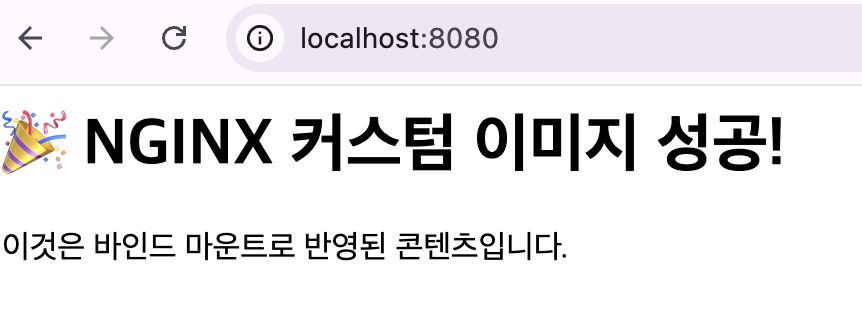
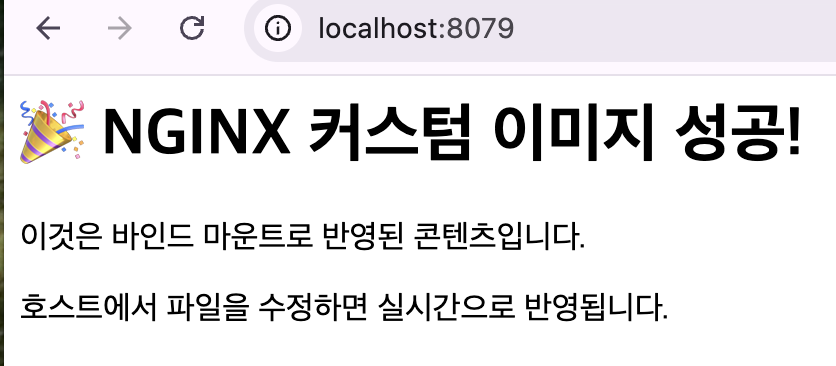
README.md 쉊

diff --git a/README.md b/README.md
@@ -568,10 +568,6 @@ my-custom-nginx   1.0       5df2d5102d4e   51 seconds ago   62.4MB
 CONTAINER ID   IMAGE                 COMMAND                   CREATED          STATUS          PORTS                                     NAMES
 6d75e498e0d8   my-custom-nginx:1.0   "/docker-entrypoint.…"   16 seconds ago   Up 15 seconds   0.0.0.0:8079->80/tcp, [::]:8079->80/tcp   my-nginx-server
 ```
-- 접속 주소: `http://localhost:8079`
-- ✅ 스크린샷   ~/site/index.html 웹페이지 8079 내용 확인
-![브라우저 접속: http://localhost:8079](./screenshot/8-6.browser.png)
-
 
 ---
 
@@ -579,7 +575,7 @@ CONTAINER ID   IMAGE                 COMMAND                   CREATED          
 
 ### 접속 확인 명령
 ```bash
-% curl http://localhost:8080
+% curl http://localhost:8079
 <html>
 <head>
     <meta charset="UTF-8">
@@ -593,9 +589,9 @@ CONTAINER ID   IMAGE                 COMMAND                   CREATED          
 ```
 
 ### 브라우저 접속 증거
-- 접속 주소: `http://localhost:8080`
+- 접속 주소: `http://localhost:8079`
 - ✅ 스크린샷  
-![브라우저 접속: http://localhost:8080](./screenshot/9.browser.png)
+![브라우저 접속: http://localhost:8079](./screenshot/9.browser.png)
 ---
 
 ### 로그 확인
